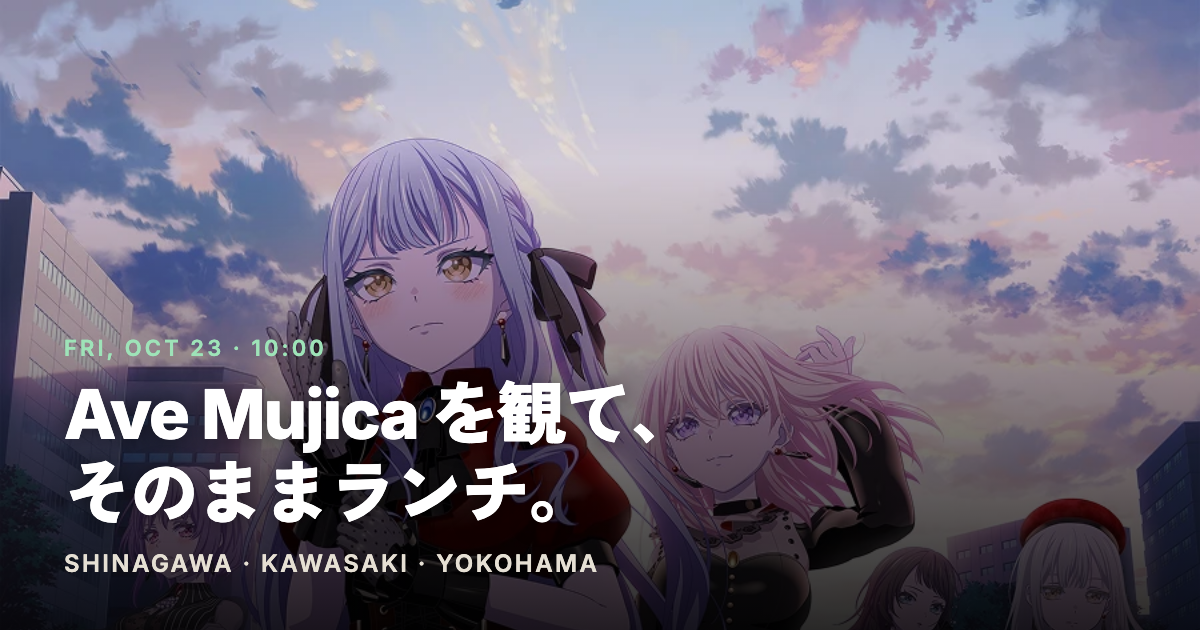
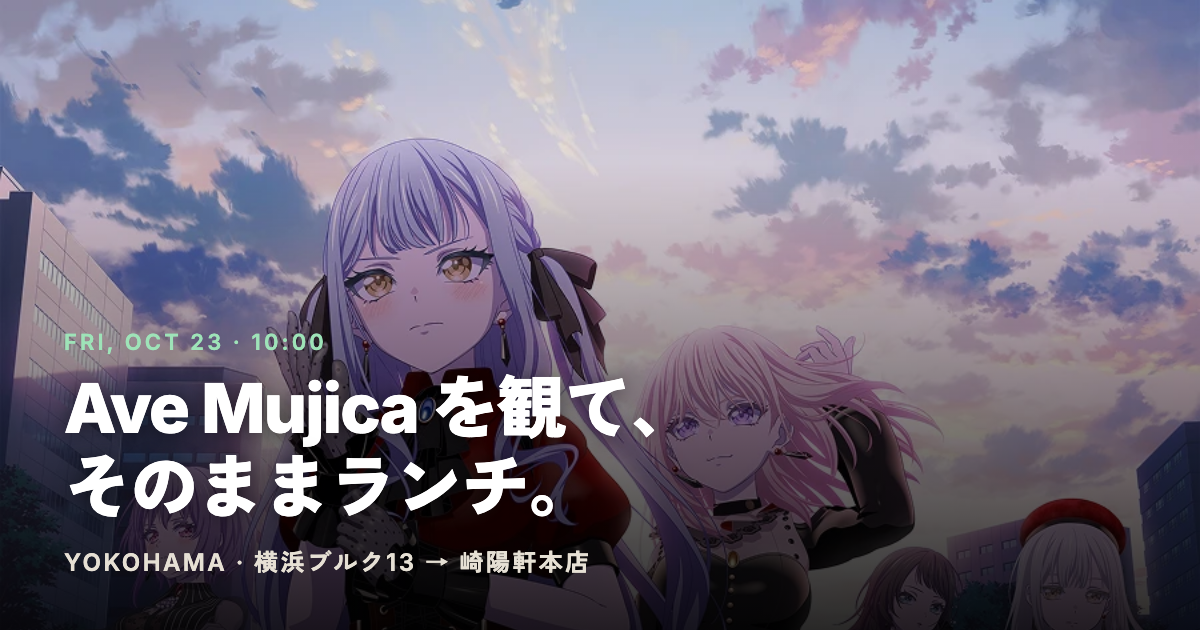
矢貫さんの選択を反映: 横浜コースに決定（DECIDED='C'・カードは横浜だけ・詳細を開いた状態で表示・OGP更新）

diff --git a/index.html b/index.html
@@ -1,7 +1,7 @@
 <!doctype html><html lang="ja"><head><meta charset="utf-8"><meta name="viewport" content="width=device-width,initial-scale=1">
-<title>10/23 Ave Mujica｜品川・川崎・横浜の3コース</title><meta name="robots" content="noindex">
+<title>10/23 Ave Mujica｜横浜コースに決定</title><meta name="robots" content="noindex">
 <meta property="og:title" content="10/23（金）Ave Mujica を観て、そのままランチ。">
-<meta property="og:description" content="品川・川崎・横浜の3コース。劇場と観たあとの店をセットにしてあります。行きたいエリアを1つ選んでください。">
+<meta property="og:description" content="横浜コースに決まりました。横浜ブルク13で観て、崎陽軒本店でランチ。上映時刻が出たら時刻と座席を連絡します。">
 <meta property="og:image" content="https://yukitchy.github.io/ave-mujica-day/ogp.png?v=2">
 <meta property="og:url" content="https://yukitchy.github.io/ave-mujica-day/">
 <meta name="twitter:card" content="summary_large_image">
@@ -57,7 +57,7 @@ header p{font-size:18px;color:var(--mute);margin:0;max-width:620px}
 .mopen{align-self:flex-start;display:inline-block;font-size:14px;font-weight:600;border-bottom:2px solid var(--acc);padding-bottom:1px}
 .mcard[aria-expanded=true] .mopen::after{content:" ▲"} .mcard[aria-expanded=false] .mopen::after{content:" ▾"}
 .detail{scroll-margin-top:12px;display:grid;grid-template-rows:0fr;transition:grid-template-rows .32s ease;margin-top:14px;position:relative}
-.detail[hidden]{display:none} .detail.open{grid-template-rows:1fr}
+.detail[hidden]{display:none} .detail.open{grid-template-rows:1fr} .detail.decided{--arrow:16.67%}
 .dwrap{overflow:hidden;min-height:0;background:var(--card);border:2px solid var(--ink);border-radius:var(--r);position:relative}
 .detail::before{content:'';position:absolute;top:-11px;left:var(--arrow,50%);width:20px;height:20px;margin-left:-10px;background:var(--acc);border-left:2px solid var(--acc);border-top:2px solid var(--acc);transform:rotate(45deg);z-index:2;opacity:0;transition:opacity .2s .12s}
 .detail.open::before{opacity:1}
@@ -113,15 +113,15 @@ header p{font-size:18px;color:var(--mute);margin:0;max-width:620px}
 .cred[open] summary::after{content:"▴"}
 .cred summary:hover{color:var(--ink)}
 .cred p{font-size:11px;color:#a49d90;line-height:1.7;margin:8px 0 0;max-width:820px}
-@media(max-width:860px){ .pre{grid-template-columns:1fr;gap:20px} .pre>img{max-width:280px;margin:0 auto} .menu{grid-template-columns:1fr} .dgrid{grid-template-columns:1fr;gap:22px} .notes{grid-template-columns:1fr} .eats{grid-template-columns:1fr} .dwrap>*{margin-left:18px;margin-right:18px} }
+@media(max-width:860px){ .pre{grid-template-columns:1fr;gap:20px} .detail.decided{--arrow:50%} .pre>img{max-width:280px;margin:0 auto} .menu{grid-template-columns:1fr} .dgrid{grid-template-columns:1fr;gap:22px} .notes{grid-template-columns:1fr} .eats{grid-template-columns:1fr} .dwrap>*{margin-left:18px;margin-right:18px} }
 </style></head><body>
 <header class="hero"><div class="hpic"><div class="slides"><img src="img/img_kv_02.webp" alt="劇場版 Ave Mujica prima aurora キービジュアル" style="object-position:center 35%"><img src="img/img_kv_01.webp" alt="劇場版 Ave Mujica ティザービジュアル" style="object-position:center 63%"><img src="img/movieintro.webp" alt="劇場版 Ave Mujica の場面写真" style="object-position:center center"></div>
 <div class="wrap hcap"><p class="kicker">FRI, OCT 23 · 10:00</p>
 <h1><span class="nb">Ave Mujica を観て、</span><span class="nb">そのままランチ。</span></h1>
-<p class="esub">SHINAGAWA · KAWASAKI · YOKOHAMA</p>
+<p class="esub">YOKOHAMA · 横浜ブルク13 → 崎陽軒本店</p>
 <div class="snav"><span class="slabel">劇場版 BanG Dream! Ave Mujica prima aurora</span><div class="dots"><button type="button" aria-label="ビジュアル1"></button><button type="button" aria-label="ビジュアル2"></button><button type="button" aria-label="ビジュアル3"></button></div></div></div></div>
-<div class="wrap hbody"><p>10/23（金）の午前の回で観ます。劇場と、観たあとに歩いて行ける店をセットにして3案作りました。行きたいエリアを1つ選んでください。</p>
-<ul class="facts"><li><b>日にち</b> 10/23（金）</li><li><b>集合</b> 10時台（回が出たら確定）</li><li><b>人数</b> 2人</li><li><b>作品</b> 劇場版 Ave Mujica prima aurora</li></ul></div></header>
+<div class="wrap hbody"><p><b>横浜コースに決まりました。</b>10/23（金）の午前の回を横浜ブルク13で観て、そのまま地下街を通って崎陽軒本店でランチです。</p>
+<ul class="facts"><li><b>日にち</b> 10/23（金）</li><li><b>集合</b> 横浜ブルク13 · 10時台（回が出たら確定）</li><li><b>人数</b> 2人</li><li><b>作品</b> 劇場版 Ave Mujica prima aurora</li></ul></div></header>
 
 <div class="wrap">
 <div class="sechead"><span class="n">1</span><div><b>どんな映画か</b> <span>観る前に、これだけ。</span></div></div>
@@ -145,46 +145,12 @@ header p{font-size:18px;color:var(--mute);margin:0;max-width:620px}
 <p style="font-size:14px">監督は柿本広大、音楽は藤田淳平（Elements Garden）、アニメーション制作はニチカライン。<a href="https://avemujica-movie.bang-dream.com/" target="_blank" rel="noopener" style="color:var(--ink);text-decoration:underline;text-underline-offset:3px">公式サイト ↗</a></p>
 </div></div>
 
-<div class="sechead" style="margin-top:36px"><span class="n">2</span><div><b>コースは3択</b> <span>カードを押すと、当日の流れ・地図・店が出ます。</span></div></div>
-<div class="menu"><button class="mcard" type="button" data-course="A" aria-expanded="false" aria-controls="detail-A">
-<img src="https://upload.wikimedia.org/wikipedia/commons/3/31/Closing_of_T-JOY_PRINCE_SHINAGAWA_for_coronavirus_01.jpg" alt="T・ジョイPRINCE品川" loading="lazy">
-<span class="mb"><span class="mk">COURSE A</span><span class="mt">品川<small class="mpl"> T・ジョイPRINCE品川</small></span>
-<span class="mtag">駅から3分。劇場も店もホテルの敷地で完結</span><ul class="mch"><li>品川駅から徒歩3分</li><li>雨に濡れない</li><li>IMAXあり</li></ul><span class="mopen">コースを見る</span></span></button><button class="mcard" type="button" data-course="B" aria-expanded="false" aria-controls="detail-B">
-<img src="https://thumb.wikimedia.org/wikipedia/commons/thumb/b/b5/La_Cittadella_20240908_%282%29.jpg/960px-La_Cittadella_20240908_%282%29.jpg" alt="チネチッタ" loading="lazy">
-<span class="mb"><span class="mk">COURSE B</span><span class="mt">川崎<small class="mpl"> チネチッタ</small></span>
-<span class="mtag">映画館も店も、ひとつの広場の中にある</span><ul class="mch"><li>川崎駅から徒歩5分</li><li>音がいい劇場</li><li>広場で選べる</li></ul><span class="mopen">コースを見る</span></span></button><button class="mcard" type="button" data-course="C" aria-expanded="false" aria-controls="detail-C">
+<div class="sechead" style="margin-top:36px"><span class="n">2</span><div><b>当日のコース</b> <span>横浜で確定。当日の流れ・地図・店はこちら。</span></div></div>
+<div class="menu picked"><button class="mcard" type="button" data-course="C" aria-expanded="true" aria-controls="detail-C">
 <img src="https://thumb.wikimedia.org/wikipedia/commons/thumb/4/4b/Yokohama_Sky_bldg._2022.jpg/960px-Yokohama_Sky_bldg._2022.jpg" alt="横浜ブルク13" loading="lazy">
 <span class="mb"><span class="mk">COURSE C</span><span class="mt">横浜<small class="mpl"> 横浜ブルク13</small></span>
-<span class="mtag">駅前のビルの11階。店は向かいの崎陽軒本店</span><ul class="mch"><li>横浜駅から徒歩3分</li><li>地下街で直結</li><li>崎陽軒の本店</li></ul><span class="mopen">コースを見る</span></span></button></div>
-<section class="detail" id="detail-A" hidden><div class="dwrap"><div class="dtop"></div>
-<div class="dhead"><div><p class="kicker">COURSE A · 品川</p><h2><span class="nb">T・ジョイPRINCE品川</span></h2></div>
-<button class="dclose" type="button" aria-label="閉じる">CLOSE ✕</button></div>
-<p class="why">品川プリンスホテルの中にある劇場です。品川駅の高輪口を出て坂を上がればすぐで、観たあとの店も同じ敷地にあります。移動が一番少ないのがこのコース。</p>
-<div class="photos"><img src="https://thumb.wikimedia.org/wikipedia/commons/thumb/9/90/E-joy_Prince_Shinagawa_cinema.jpg/960px-E-joy_Prince_Shinagawa_cinema.jpg" alt="品川コースの写真" loading="lazy"><img src="https://thumb.wikimedia.org/wikipedia/commons/thumb/e/e7/Shinagawa_Prince_Hotel_-_Tokyo%2C_Japan_-_DSC09419.jpg/960px-Shinagawa_Prince_Hotel_-_Tokyo%2C_Japan_-_DSC09419.jpg" alt="品川コースの写真" loading="lazy"></div>
-<div class="dgrid">
-<div><h3>TIMELINE</h3><ol class="steps"><li><b>10:00</b><div><strong>T・ジョイPRINCE品川に集合</strong><span>品川駅の高輪口から歩いて3分。品川プリンスホテル アネックスタワーの中です。</span></div></li><li><b>10:20</b><div><strong>上映開始</strong><span>回の時刻が出たら確定します。チケットはユウキが取ります。</span></div></li><li><b>12:40</b><div><strong>終映、そのまま歩く</strong><span>ホテルの敷地内なので、外に出ずに店まで行けます。</span></div></li><li><b>13:00</b><div><strong>ランチ</strong><span>下の2軒から選びます。</span></div></li></ol></div>
-<div><h3>MAP</h3><div class="mapbox"><iframe src="https://maps.google.com/maps?q=T%E3%83%BB%E3%82%B8%E3%83%A7%E3%82%A4PRINCE%E5%93%81%E5%B7%9D&output=embed&z=16" loading="lazy" title="T・ジョイPRINCE品川" referrerpolicy="no-referrer-when-downgrade"></iframe></div>
-<p class="moves">品川駅 高輪口 → 劇場 徒歩3分。劇場 → 店 徒歩3分。 <a href="https://www.google.com/maps/dir/?api=1&origin=%E5%93%81%E5%B7%9D%E9%A7%85&destination=%E5%93%81%E5%B7%9D%E3%83%97%E3%83%AA%E3%83%B3%E3%82%B9%E3%83%9B%E3%83%86%E3%83%AB&waypoints=T%E3%83%BB%E3%82%B8%E3%83%A7%E3%82%A4PRINCE%E5%93%81%E5%B7%9D&travelmode=transit" target="_blank" rel="noopener">経路をGoogleマップで開く ↗</a></p></div>
-</div>
-<h3>ランチはこの2軒から</h3><div class="eats"><a class="eat" href="https://www.google.com/maps/search/?api=1&query=%E5%93%81%E5%B7%9D%E3%83%97%E3%83%AA%E3%83%B3%E3%82%B9%E3%83%9B%E3%83%86%E3%83%AB%20LUXE%20DINING%20HAPUNA" target="_blank" rel="noopener"><img src="https://thumb.wikimedia.org/wikipedia/commons/thumb/8/88/Shinagawa_Prince_Hotel_Main_Entrance_and_East_Tower_2014.jpg/960px-Shinagawa_Prince_Hotel_Main_Entrance_and_East_Tower_2014.jpg" alt="LUXE DINING HAPUNA" loading="lazy"><span class="eb"><strong>LUXE DINING HAPUNA</strong><em>品川プリンスホテル · ビュッフェ</em><span>同じホテルのメインタワーにあるビュッフェ。劇場から屋根の下を歩いて行けるので、終映から座るまでが一番速い。</span><i>Googleマップで開く ↗</i></span></a><a class="eat" href="https://www.google.com/maps/search/?api=1&query=%E3%81%A8%E3%82%93%E3%81%8B%E3%81%A4%20%E3%81%8B%E3%81%A4%E4%BB%99%20%E5%93%81%E5%B7%9D" target="_blank" rel="noopener"><img src="https://thumb.wikimedia.org/wikipedia/commons/thumb/6/62/Tonkatsu_by_ayustety_in_Tokyo.jpg/960px-Tonkatsu_by_ayustety_in_Tokyo.jpg" alt="とんかつ かつ仙" loading="lazy"><span class="eb"><strong>とんかつ かつ仙</strong><em>高輪 · とんかつ</em><span>品川では数少ないとんかつの専門店。群馬の赤城山麓の銘柄豚を使っていて、昼も混みます。</span><i>Googleマップで開く ↗</i></span></a></div>
-<div class="notes"><p><b>GOOD</b> 移動を最小にしたい日。雨予報の日。IMAXで観たい場合もここ。</p><p><b>NOTE</b> ホテルの敷地は広いので、集合は劇場の入口前にします。ビュッフェは混む時間帯があります。</p></div>
-<p class="links"><a href="https://tjoy.jp/t-joy_prince_shinagawa" target="_blank" rel="noopener">T・ジョイPRINCE品川 ↗</a></p>
-<a class="choose" href="https://www.google.com/maps/search/?api=1&query=T%E3%83%BB%E3%82%B8%E3%83%A7%E3%82%A4PRINCE%E5%93%81%E5%B7%9D" target="_blank" rel="noopener">GoogleマップでT・ジョイPRINCE品川を開く</a>
-</div></section><section class="detail" id="detail-B" hidden><div class="dwrap"><div class="dtop"></div>
-<div class="dhead"><div><p class="kicker">COURSE B · 川崎</p><h2><span class="nb">チネチッタ</span></h2></div>
-<button class="dclose" type="button" aria-label="閉じる">CLOSE ✕</button></div>
-<p class="why">イタリアの街並みを模したラ チッタデッラという広場の中にある映画館です。音の設備に力を入れている劇場なので、ライブの場面がある作品と相性がいい。店も同じ広場の中から選べます。</p>
-<div class="photos"><img src="https://thumb.wikimedia.org/wikipedia/commons/thumb/9/9d/La_Cittadella_20240908_%285%29.jpg/960px-La_Cittadella_20240908_%285%29.jpg" alt="川崎コースの写真" loading="lazy"><img src="https://thumb.wikimedia.org/wikipedia/commons/thumb/0/0e/La_Cittadella_20240908_%287%29.jpg/960px-La_Cittadella_20240908_%287%29.jpg" alt="川崎コースの写真" loading="lazy"></div>
-<div class="dgrid">
-<div><h3>TIMELINE</h3><ol class="steps"><li><b>10:00</b><div><strong>チネチッタに集合</strong><span>川崎駅の東口から歩いて5分。ラ チッタデッラの広場を入ってすぐです。</span></div></li><li><b>10:20</b><div><strong>上映開始</strong><span>回の時刻が出たら確定します。</span></div></li><li><b>12:40</b><div><strong>終映、広場に出る</strong><span>店は広場を出ずに歩いて1分です。</span></div></li><li><b>13:00</b><div><strong>ランチ</strong><span>下の2軒から選びます。</span></div></li></ol></div>
-<div><h3>MAP</h3><div class="mapbox"><iframe src="https://maps.google.com/maps?q=%E3%83%81%E3%83%8D%E3%83%81%E3%83%83%E3%82%BF&output=embed&z=16" loading="lazy" title="チネチッタ" referrerpolicy="no-referrer-when-downgrade"></iframe></div>
-<p class="moves">川崎駅 東口 → チネチッタ 徒歩5分。劇場 → 店 徒歩1分。 <a href="https://www.google.com/maps/dir/?api=1&origin=%E5%B7%9D%E5%B4%8E%E9%A7%85&destination=%E3%83%A9%20%E3%83%81%E3%83%83%E3%82%BF%E3%83%87%E3%83%83%E3%83%A9&waypoints=%E3%83%81%E3%83%8D%E3%83%81%E3%83%83%E3%82%BF&travelmode=transit" target="_blank" rel="noopener">経路をGoogleマップで開く ↗</a></p></div>
-</div>
-<h3>ランチはこの2軒から</h3><div class="eats"><a class="eat" href="https://www.google.com/maps/search/?api=1&query=%E9%85%89%E5%8D%81%E9%83%8E%20%E5%B7%9D%E5%B4%8E%E5%BA%97" target="_blank" rel="noopener"><img src="https://thumb.wikimedia.org/wikipedia/commons/thumb/0/04/Sakura_Teishoku_-_Sakura_Japanese_Restaurant_2025-07-28.jpg/960px-Sakura_Teishoku_-_Sakura_Japanese_Restaurant_2025-07-28.jpg" alt="酉十郎 川崎店" loading="lazy"><span class="eb"><strong>酉十郎 川崎店</strong><em>ラ チッタデッラ · 定食</em><span>クラブチッタの入口の正面。定食や御膳がしっかり出てくるので、腹を決めて食べたい時はここ。</span><i>Googleマップで開く ↗</i></span></a><a class="eat" href="https://www.google.com/maps/search/?api=1&query=IL%20PACIOCCONE%20DI%20CHIANTI%20%E5%B7%9D%E5%B4%8E" target="_blank" rel="noopener"><img src="https://thumb.wikimedia.org/wikipedia/commons/thumb/3/31/Spaghetti_al_pomodoro%2C_icona_della_cucina_italiana_nel_mondo._.jpg/960px-Spaghetti_al_pomodoro%2C_icona_della_cucina_italiana_nel_mondo._.jpg" alt="イル・パチョッコーネ・ディ・キャンティ" loading="lazy"><span class="eb"><strong>イル・パチョッコーネ・ディ・キャンティ</strong><em>ラ チッタデッラ · イタリアン</em><span>広場の中のイタリアン。トスカーナのキャンティ地方の郷土料理が中心で、広場を眺めながら座れます。</span><i>Googleマップで開く ↗</i></span></a></div>
-<div class="notes"><p><b>GOOD</b> 映画のあとに歩き回りたくない日。広場そのものが気持ちいいので、昼まで居られる。</p><p><b>NOTE</b> 土日の広場はイベントで混みます。10/23は金曜なので比較的静かなはずです。</p></div>
-<p class="links"><a href="https://cinecitta.co.jp/" target="_blank" rel="noopener">チネチッタ ↗</a> <a href="https://lacittadella.co.jp/" target="_blank" rel="noopener">ラ チッタデッラ ↗</a></p>
-<a class="choose" href="https://www.google.com/maps/search/?api=1&query=%E3%83%81%E3%83%8D%E3%83%81%E3%83%83%E3%82%BF" target="_blank" rel="noopener">Googleマップでチネチッタを開く</a>
-</div></section><section class="detail" id="detail-C" hidden><div class="dwrap"><div class="dtop"></div>
+<span class="mtag">駅前のビルの11階。店は向かいの崎陽軒本店</span><ul class="mch"><li>横浜駅から徒歩3分</li><li>地下街で直結</li><li>崎陽軒の本店</li></ul><span class="mopen">このコースに決定</span></span></button></div>
+<section class="detail open decided" id="detail-C"><div class="dwrap"><div class="dtop"></div>
 <div class="dhead"><div><p class="kicker">COURSE C · 横浜</p><h2><span class="nb">横浜ブルク13</span></h2></div>
 <button class="dclose" type="button" aria-label="閉じる">CLOSE ✕</button></div>
 <p class="why">横浜駅の東口、横浜スカイビルの中にある劇場です。観たあとは向かいの崎陽軒本店へ。地下街のポルタで繋がっているので、外を歩かずに行けます。</p>
@@ -200,9 +166,9 @@ header p{font-size:18px;color:var(--mute);margin:0;max-width:620px}
 <a class="choose" href="https://www.google.com/maps/search/?api=1&query=%E6%A8%AA%E6%B5%9C%E3%83%96%E3%83%AB%E3%82%AF13" target="_blank" rel="noopener">Googleマップで横浜ブルク13を開く</a>
 </div></section>
 
-<div class="sechead" style="margin-top:36px"><span class="n">3</span><div><b>決め方</b> <span>返事はエリア名だけで大丈夫です。</span></div></div>
+<div class="sechead" style="margin-top:36px"><span class="n">3</span><div><b>これから</b> <span>あとはユウキが押さえます。</span></div></div>
 <div class="tail" style="border:none;padding-top:0">
-<p><b>品川・川崎・横浜のどれか</b>を返してください。店は当日その場で決めても大丈夫です。</p>
+<p><b>エリアは横浜で確定。</b>店は崎陽軒本店の2軒（中国料理か、イタリアン）から、当日その場で決めても大丈夫です。</p>
 <p>10/23の上映時刻は、どの劇場もまだ出していません。だいたい1週間前、<b>10月17日ごろ</b>に出るので、出たらユウキが10時台の回を押さえて、時刻と座席をあらためて連絡します。</p>
 <p>営業時間と定休日は変わることがあるので、当日の朝にリンクから確認します。</p>
 </div>

diff --git a/ogp.html b/ogp.html
@@ -14,4 +14,4 @@ h1{font-size:68px;font-weight:800;line-height:1.16;letter-spacing:-.025em;text-s
 <div class="c"><img src="img/img_kv_02.webp" alt="">
  <div class="t"><div class="k">FRI, OCT 23 · 10:00</div>
  <h1>Ave Mujica を観て、<br>そのままランチ。</h1>
- <div class="s">SHINAGAWA · KAWASAKI · YOKOHAMA</div></div></div>
+ <div class="s">YOKOHAMA · 横浜ブルク13 → 崎陽軒本店</div></div></div>

diff --git a/build.py b/build.py
@@ -15,6 +15,7 @@ def route_link(stops):
     return ('https://www.google.com/maps/dir/?api=1&origin=' + s[0] + '&destination=' + s[-1]
             + ('&waypoints=' + '%7C'.join(s[1:-1]) if len(s) > 2 else '') + '&travelmode=transit')
 
+DECIDED = 'C'  # 矢貫さんが横浜を選択（2026-09-12 LINE）。None にすると3択ページに戻る
 COURSES = [
  dict(id='A', area='品川', kicker='COURSE A', name='品川', place='T・ジョイPRINCE品川',
   tag='駅から3分。劇場も店もホテルの敷地で完結', card=img('cinema_shinagawa'),
@@ -70,10 +71,11 @@ COURSES = [
 
 def card(c):
     ch = ''.join('<li>' + html.escape(t) + '</li>' for t in c['chips'])
-    return f'''<button class="mcard" type="button" data-course="{c['id']}" aria-expanded="false" aria-controls="detail-{c['id']}">
+    on = c['id'] == DECIDED
+    return f'''<button class="mcard" type="button" data-course="{c['id']}" aria-expanded="{'true' if on else 'false'}" aria-controls="detail-{c['id']}">
 <img src="{c['card']}" alt="{html.escape(c['place'])}" loading="lazy">
 <span class="mb"><span class="mk">{c['kicker']}</span><span class="mt">{html.escape(c['name'])}<small class="mpl"> {html.escape(c['place'])}</small></span>
-<span class="mtag">{html.escape(c['tag'])}</span><ul class="mch">{ch}</ul><span class="mopen">コースを見る</span></span></button>'''
+<span class="mtag">{html.escape(c['tag'])}</span><ul class="mch">{ch}</ul><span class="mopen">{'このコースに決定' if on else 'コースを見る'}</span></span></button>'''
 
 def detail(c):
     ph = ''.join(f'<img src="{u}" alt="{html.escape(c["name"])}コースの写真" loading="lazy">' for u in c['photos'])
@@ -84,7 +86,7 @@ def detail(c):
                  f'<i>Googleマップで開く ↗</i></span></a>'
                  for n, a, d, q, im in c['eats'])
     ln = ' '.join(f'<a href="{u}" target="_blank" rel="noopener">{html.escape(t)} ↗</a>' for t, u in c['links'])
-    return f'''<section class="detail" id="detail-{c['id']}" hidden><div class="dwrap"><div class="dtop"></div>
+    return f'''<section class="detail{' open decided' if c['id'] == DECIDED else ''}" id="detail-{c['id']}"{'' if c['id'] == DECIDED else ' hidden'}><div class="dwrap"><div class="dtop"></div>
 <div class="dhead"><div><p class="kicker">{c['kicker']} · {html.escape(c['area'])}</p><h2><span class="nb">{html.escape(c['place'])}</span></h2></div>
 <button class="dclose" type="button" aria-label="閉じる">CLOSE ✕</button></div>
 <p class="why">{html.escape(c['why'])}</p>
@@ -108,9 +110,9 @@ dots = ''.join('<button type="button" aria-label="ビジュアル' + str(i + 1) 
 credits = ' / '.join(sorted(set(html.escape(v['title'].rsplit('.', 1)[0]) for v in PH.values())))
 
 page = f'''<!doctype html><html lang="ja"><head><meta charset="utf-8"><meta name="viewport" content="width=device-width,initial-scale=1">
-<title>10/23 Ave Mujica｜品川・川崎・横浜の3コース</title><meta name="robots" content="noindex">
+<title>10/23 Ave Mujica｜横浜コースに決定</title><meta name="robots" content="noindex">
 <meta property="og:title" content="10/23（金）Ave Mujica を観て、そのままランチ。">
-<meta property="og:description" content="品川・川崎・横浜の3コース。劇場と観たあとの店をセットにしてあります。行きたいエリアを1つ選んでください。">
+<meta property="og:description" content="横浜コースに決まりました。横浜ブルク13で観て、崎陽軒本店でランチ。上映時刻が出たら時刻と座席を連絡します。">
 <meta property="og:image" content="https://yukitchy.github.io/ave-mujica-day/ogp.png?v=2">
 <meta property="og:url" content="https://yukitchy.github.io/ave-mujica-day/">
 <meta name="twitter:card" content="summary_large_image">
@@ -166,7 +168,7 @@ header p{{font-size:18px;color:var(--mute);margin:0;max-width:620px}}
 .mopen{{align-self:flex-start;display:inline-block;font-size:14px;font-weight:600;border-bottom:2px solid var(--acc);padding-bottom:1px}}
 .mcard[aria-expanded=true] .mopen::after{{content:" ▲"}} .mcard[aria-expanded=false] .mopen::after{{content:" ▾"}}
 .detail{{scroll-margin-top:12px;display:grid;grid-template-rows:0fr;transition:grid-template-rows .32s ease;margin-top:14px;position:relative}}
-.detail[hidden]{{display:none}} .detail.open{{grid-template-rows:1fr}}
+.detail[hidden]{{display:none}} .detail.open{{grid-template-rows:1fr}} .detail.decided{{--arrow:16.67%}}
 .dwrap{{overflow:hidden;min-height:0;background:var(--card);border:2px solid var(--ink);border-radius:var(--r);position:relative}}
 .detail::before{{content:'';position:absolute;top:-11px;left:var(--arrow,50%);width:20px;height:20px;margin-left:-10px;background:var(--acc);border-left:2px solid var(--acc);border-top:2px solid var(--acc);transform:rotate(45deg);z-index:2;opacity:0;transition:opacity .2s .12s}}
 .detail.open::before{{opacity:1}}
@@ -222,15 +224,15 @@ header p{{font-size:18px;color:var(--mute);margin:0;max-width:620px}}
 .cred[open] summary::after{{content:"▴"}}
 .cred summary:hover{{color:var(--ink)}}
 .cred p{{font-size:11px;color:#a49d90;line-height:1.7;margin:8px 0 0;max-width:820px}}
-@media(max-width:860px){{ .pre{{grid-template-columns:1fr;gap:20px}} .pre>img{{max-width:280px;margin:0 auto}} .menu{{grid-template-columns:1fr}} .dgrid{{grid-template-columns:1fr;gap:22px}} .notes{{grid-template-columns:1fr}} .eats{{grid-template-columns:1fr}} .dwrap>*{{margin-left:18px;margin-right:18px}} }}
+@media(max-width:860px){{ .pre{{grid-template-columns:1fr;gap:20px}} .detail.decided{{--arrow:50%}} .pre>img{{max-width:280px;margin:0 auto}} .menu{{grid-template-columns:1fr}} .dgrid{{grid-template-columns:1fr;gap:22px}} .notes{{grid-template-columns:1fr}} .eats{{grid-template-columns:1fr}} .dwrap>*{{margin-left:18px;margin-right:18px}} }}
 </style></head><body>
 <header class="hero"><div class="hpic"><div class="slides">{slides}</div>
 <div class="wrap hcap"><p class="kicker">FRI, OCT 23 · 10:00</p>
 <h1><span class="nb">Ave Mujica を観て、</span><span class="nb">そのままランチ。</span></h1>
-<p class="esub">SHINAGAWA · KAWASAKI · YOKOHAMA</p>
+<p class="esub">YOKOHAMA · 横浜ブルク13 → 崎陽軒本店</p>
 <div class="snav"><span class="slabel">劇場版 BanG Dream! Ave Mujica prima aurora</span><div class="dots">{dots}</div></div></div></div>
-<div class="wrap hbody"><p>10/23（金）の午前の回で観ます。劇場と、観たあとに歩いて行ける店をセットにして3案作りました。行きたいエリアを1つ選んでください。</p>
-<ul class="facts"><li><b>日にち</b> 10/23（金）</li><li><b>集合</b> 10時台（回が出たら確定）</li><li><b>人数</b> 2人</li><li><b>作品</b> 劇場版 Ave Mujica prima aurora</li></ul></div></header>
+<div class="wrap hbody"><p><b>横浜コースに決まりました。</b>10/23（金）の午前の回を横浜ブルク13で観て、そのまま地下街を通って崎陽軒本店でランチです。</p>
+<ul class="facts"><li><b>日にち</b> 10/23（金）</li><li><b>集合</b> 横浜ブルク13 · 10時台（回が出たら確定）</li><li><b>人数</b> 2人</li><li><b>作品</b> 劇場版 Ave Mujica prima aurora</li></ul></div></header>
 
 <div class="wrap">
 <div class="sechead"><span class="n">1</span><div><b>どんな映画か</b> <span>観る前に、これだけ。</span></div></div>
@@ -254,13 +256,13 @@ header p{{font-size:18px;color:var(--mute);margin:0;max-width:620px}}
 <p style="font-size:14px">監督は柿本広大、音楽は藤田淳平（Elements Garden）、アニメーション制作はニチカライン。<a href="https://avemujica-movie.bang-dream.com/" target="_blank" rel="noopener" style="color:var(--ink);text-decoration:underline;text-underline-offset:3px">公式サイト ↗</a></p>
 </div></div>
 
-<div class="sechead" style="margin-top:36px"><span class="n">2</span><div><b>コースは3択</b> <span>カードを押すと、当日の流れ・地図・店が出ます。</span></div></div>
-<div class="menu">{''.join(card(c) for c in COURSES)}</div>
-{''.join(detail(c) for c in COURSES)}
+<div class="sechead" style="margin-top:36px"><span class="n">2</span><div><b>当日のコース</b> <span>横浜で確定。当日の流れ・地図・店はこちら。</span></div></div>
+<div class="menu picked">{''.join(card(c) for c in COURSES if c['id'] == DECIDED)}</div>
+{''.join(detail(c) for c in COURSES if c['id'] == DECIDED)}
 
-<div class="sechead" style="margin-top:36px"><span class="n">3</span><div><b>決め方</b> <span>返事はエリア名だけで大丈夫です。</span></div></div>
+<div class="sechead" style="margin-top:36px"><span class="n">3</span><div><b>これから</b> <span>あとはユウキが押さえます。</span></div></div>
 <div class="tail" style="border:none;padding-top:0">
-<p><b>品川・川崎・横浜のどれか</b>を返してください。店は当日その場で決めても大丈夫です。</p>
+<p><b>エリアは横浜で確定。</b>店は崎陽軒本店の2軒（中国料理か、イタリアン）から、当日その場で決めても大丈夫です。</p>
 <p>10/23の上映時刻は、どの劇場もまだ出していません。だいたい1週間前、<b>10月17日ごろ</b>に出るので、出たらユウキが10時台の回を押さえて、時刻と座席をあらためて連絡します。</p>
 <p>営業時間と定休日は変わることがあるので、当日の朝にリンクから確認します。</p>
 </div>
